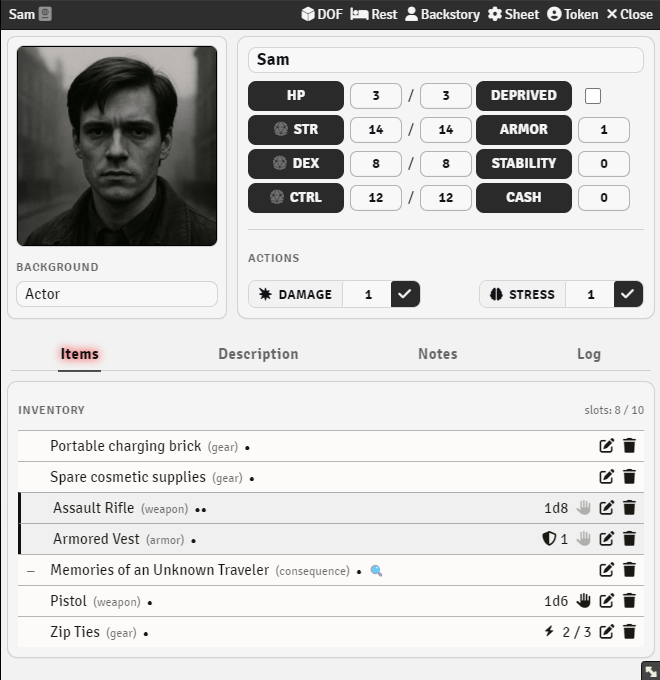
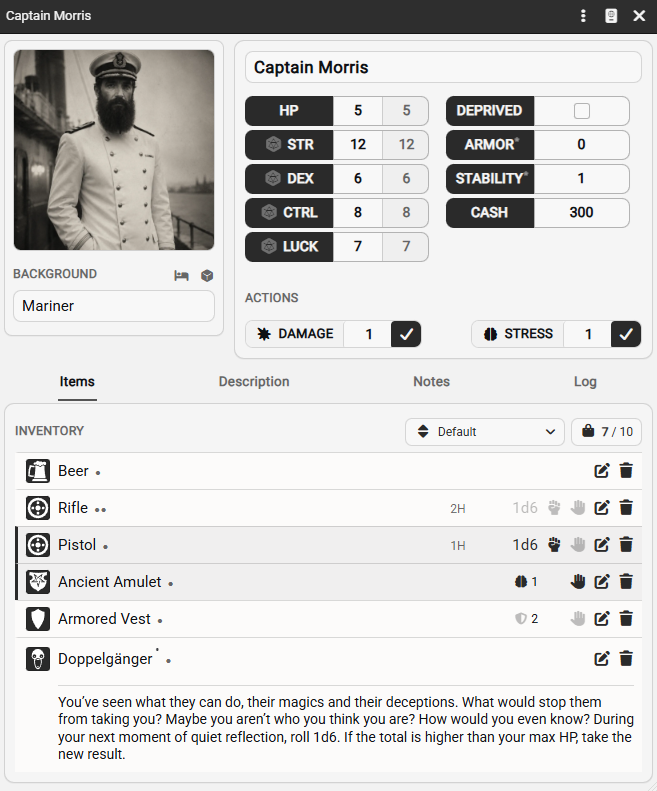
docs: redesign README with feature showcase and updated screenshots

diff --git a/README.md b/README.md
@@ -1,95 +1,154 @@
 <div align="center">
-  <img src="assets/img/logo.webp" alt="Liminal Horror Logo" width="500"/>
+  <img src="assets/img/logo.webp" alt="Liminal Horror" width="420" />
+
+  <h1>Liminal Horror for Foundry VTT</h1>
+
+  <p>Investigator sheets, character generation, and tools for the Facilitator.</p>
+
+  <p>
+    <img src="https://img.shields.io/badge/Foundry-v14-2a2a2a" alt="Foundry v14" />
+    <img src="https://img.shields.io/badge/Languages-English%20%2F%20Українська-2a2a2a" alt="Languages: English and Ukrainian" />
+    <img src="https://img.shields.io/badge/Release-Beta-2a2a2a" alt="Release: Beta" />
+    <a href="https://creativecommons.org/licenses/by-sa/4.0/"><img src="https://img.shields.io/badge/License-CC%20BY--SA%204.0-2a2a2a" alt="License: CC BY-SA 4.0" /></a>
+  </p>
+
+  <p>
+    <a href="#installation">Install</a> ·
+    <a href="#features">Features &amp; screenshots</a> ·
+    <a href="CHANGELOG.md">Changelog</a> ·
+    <a href="https://666f78.pp.ua/donate">Support development</a>
+  </p>
 </div>
 
-# Liminal Horror — Foundry VTT System
+An **unofficial system** for playing [Liminal Horror](https://liminalhorrorrpg.com) in [Foundry Virtual Tabletop](https://foundryvtt.com). Manage investigators, roll saves and attacks, track equipment and protection, and generate characters with their backgrounds and starting items.
 
-![Foundry v14](https://img.shields.io/badge/Foundry-v14-green)
-![License: CC BY-SA 4.0](https://img.shields.io/badge/License-CC%20BY--SA%204.0-blue)
-![Status: Unofficial](https://img.shields.io/badge/Status-Unofficial-critical)
-![Release: Beta](https://img.shields.io/badge/Release-Beta-yellow)
-[![Changelog](https://img.shields.io/badge/Changelog-md-orange)](https://github.com/666f78/liminal-horror/blob/master/CHANGELOG.md)
+Available in **English** and **Українська**. Designed for **Foundry VTT v14**.
 
-</div>
+> This is an independent adaptation by **D.H. / 666f78**, not affiliated with or endorsed by the creators of Liminal Horror.
 
-> ☕ **[Support the project](https://666f78.pp.ua/donate)** — help support continued development.
+## Installation
 
-This is an **unofficial system** for [Foundry Virtual Tabletop](https://foundryvtt.com), designed to run games of **[Liminal Horror](https://liminalhorrorrpg.com)**.
-It provides investigator sheets, rolling mechanics, and tools adapted to the rules of the game.
+1. Open Foundry VTT and go to **Game Systems → Install System**.
+2. Paste this URL into **Manifest URL**:
 
-> ⚠ **Disclaimer**: Unofficial system by D.H. / 666f78.
-> Not affiliated with Goblin Archives, Josh Domanski, or Zach Hazard Vaupen.
+   ```text
+   https://github.com/666f78/liminal-horror/releases/latest/download/system.json
+   ```
 
-## Features & Roadmap
+3. Click **Install**, then create a world using **Liminal Horror**.
 
-- [x] Investigator sheet with core attributes, inventory, stress, and conditions.
-- [x] Limited Investigator sheet.
-- [x] Support for dice rolls and saving throws according to the Liminal Horror rules.
-- [x] Simple inventory and slot-based encumbrance.
-- [x] GM tools for stress, injuries, and custom rolls.
-- [x] GM `Log` tab in actor sheet and background generator button.
-- [x] Localization support (English, Українська).
-- [x] Appendix L: Luck
-- [x] Update UI
-- [x] Starter item compendium
+For manual installation, download `system.zip` from the [latest release](https://github.com/666f78/liminal-horror/releases/latest) and extract the system into `Data/systems/liminal-horror`.
+
+<details>
+  <summary>Legacy installation for Foundry VTT v12</summary>
+
+The v12 version is no longer updated. Use the manifest for release **0.1.0**:
+
+```text
+https://github.com/666f78/liminal-horror/releases/download/0.1.0/system.json
+```
+
+</details>
+
+## Features
+
+### Investigator sheets
+
+Keep attributes, HP, cash, armor, Stability, and inventory together. Roll directly from the sheet, expand item descriptions, and use separate tabs for character descriptions, notes, and the GM log.
+
+- Slot-based inventory with manual drag-and-drop ordering and sorting options.
+- Equipped weapon and spell attacks, primary and offhand weapon slots, and two-handed weapons.
+- Automatic dual-wielding rolls that keep the highest result, with configurable offhand die reduction.
+- Separate physical and stress protection, with automatic totals from equipped armor or manual values.
+- Optional **Appendix L: Luck**, including spending Luck and undoing the expenditure.
+- Limited-permission investigator views and sheets for NPCs, monsters, and vehicles.
+
+<p align="center">
+  <a href="docs/sheet.png"><img src="docs/sheet.png" alt="Investigator sheet with attributes, equipment slots, armor, and an expanded item description" width="654" /></a>
+</p>
+
+### Investigator generation
+
+Build an investigator step by step from the sheet's **Investigator Generator**, or use **Generate Investigator** in the Actors directory to create one with rolled stats, descriptive details, a backstory, and starting equipment. The result is also posted to chat.
+
+The sheet generator supports individual rolls, rolling only missing attributes, attribute swapping, and configurable player rerolls.
+
+<table>
+  <tr>
+    <th width="65%">Investigator Generator</th>
+    <th width="35%">Generated investigator in chat</th>
+  </tr>
+  <tr>
+    <td align="center" valign="top">
+      <a href="docs/investigator-generator.png"><img src="docs/investigator-generator.png" alt="Investigator Generator with attribute rolls, descriptive details, and background selection" width="500" /></a>
+    </td>
+    <td align="center" valign="top">
+      <a href="docs/random-investigator-generator.png"><img src="docs/random-investigator-generator.png" alt="Generated investigator chat card with a backstory, stats, and descriptive details" width="240" /></a>
+    </td>
+  </tr>
+</table>
+
+### Party Overview
+
+Give the Facilitator a shared view of the selected investigators: HP, attributes, optional Luck, inventory slots, and statuses. The GM can edit the party, open character sheets from the table, and inspect additional statuses through tooltips. Values update as characters change.
+
+<p align="center">
+  <a href="docs/party-overview.png"><img src="docs/party-overview.png" alt="Party Overview showing three investigators with HP, attributes, inventory slots, and statuses" width="880" /></a>
+</p>
+
+### Items and equipment
+
+Use the starter item compendium or create your own weapons, spells, armor, gear, artifacts, injuries, consequences, and conditions. New items receive a monochrome icon for their type; click an item's image to choose your own.
+
+Weapon sheets include damage, handedness, and primary/offhand assignment. Armor can provide physical protection, stress protection, or both. Equipment changes are grouped into one chat message showing what was removed and equipped.
+
+<table>
+  <tr>
+    <th width="60%">Item sheet</th>
+    <th width="40%">Starter item compendium</th>
+  </tr>
+  <tr>
+    <td align="center" valign="top">
+      <a href="docs/item-sheet.png"><img src="docs/item-sheet.png" alt="Weapon item sheet with an editable image, damage, weapon grip, equipment slot, and inventory fields" width="440" /></a>
+    </td>
+    <td align="center" valign="top">
+      <a href="docs/compendium-items.png"><img src="docs/compendium-items.png" alt="Starter item compendium organized into folders with monochrome item icons" width="250" /></a>
+    </td>
+  </tr>
+</table>
+
+### Tools for the Facilitator
+
+Apply damage and stress, manage injuries and consequences, roll backgrounds, and use Voidcrawl tools. Integrated chat cards display rolls, item use, equipment changes, and generated investigator details.
+
+## Getting started
+
+1. Create an **Investigator** in the Actors directory, or click **Generate Investigator** for a random character.
+2. Open the sheet's **Investigator Generator** to roll or fill in character details step by step.
+3. Add items from the compendium or create them yourself, then equip the weapons, spells, and armor you want to use.
+4. Click an equipped weapon's damage die to attack, or an attribute to roll a save.
+5. As GM, open **Party Overview** from the Actors directory and choose the investigators to track.
+
+System settings control automatic protection totals, dual-wielding die reduction, generator rerolls, and **Appendix L: Luck**.
+
+## Roadmap
+
 - [ ] Appendix C: Conditions
 - [ ] Appendix I: Item Tags
 - [ ] Appendix T: Time Procedures
 
-## Installation
+See [CHANGELOG.md](CHANGELOG.md) for release notes and completed changes.
 
-1. Open **Foundry VTT**.
-2. Navigate to **Game Systems → Install System**.
-3. Paste the system manifest URL below:
+## Feedback and contributions
 
-**For Foundry v14 (latest, recommended):**
+[Report a bug](https://github.com/666f78/liminal-horror/issues) or [start a discussion](https://github.com/666f78/liminal-horror/discussions). Feature requests, pull requests, and English or Ukrainian translation improvements are welcome. Submit localization changes in the corresponding `lang/*.json` files.
 
-```bash
-https://github.com/666f78/liminal-horror/releases/latest/download/system.json
-```
+If you would like to help fund ongoing work, [support development](https://666f78.pp.ua/donate).
 
-**For Foundry v12 (legacy, no longer updated):**
+## Credits and license
 
-```bash
-https://github.com/666f78/liminal-horror/releases/download/0.1.0/system.json
-```
+**Liminal Horror** was created by **Goblin Archives, Josh Domanski, and Zach Hazard Vaupen**. This Foundry VTT adaptation is developed by **D.H. / 666f78**.
 
-4. Click **Install**.
-5. After installation, create a new world using **Liminal Horror** system.
+The original game and this adaptation are released under the [Creative Commons Attribution-ShareAlike 4.0 International License](https://creativecommons.org/licenses/by-sa/4.0/). You may share and adapt this work with appropriate credit to the original creators and the adaptation's author, and must distribute adaptations under the same license.
 
-> 💡 **Tip**: You can also install manually by downloading this repository as a ZIP and placing it in your Foundry `Data/systems` folder.
-
-## Usage
-
-- Create a new Actor → Choose **Investigator** to make a player sheet.
-- Add attributes, inventory items, and conditions directly from the sheet.
-- Roll attributes and saves with integrated buttons.
-- GMs can apply stress, conditions, and whisper rolls privately.
-
-![Investigator Sheet](docs/sheet.png)
-
-## Contributing
-
-Feedback and pull requests are welcome. Please use GitHub Issues for bug reports or feature requests.
-For localization contributions, please submit `.json` files via PR.
-
-## License
-
-This work is based on **Liminal Horror**, developed by Goblin Archives, Josh Domanski, and Zach Hazard Vaupen, and published under the [Creative Commons Attribution-ShareAlike 4.0 International License (CC BY-SA 4.0)](https://creativecommons.org/licenses/by-sa/4.0/).
-
-The **Foundry VTT system adaptation** has been developed by **D.H. / 666f78** and is likewise released under the **CC BY-SA 4.0 License**.
-You are free to share and adapt this system, provided that you give appropriate credit to both the original creators of _Liminal Horror_ and to the author of this adaptation, and distribute your contributions under the same license.
-
-Liminal Horror © Goblin Archives, Josh Domanski, and Zach Hazard Vaupen.
-Foundry VTT system adaptation © D.H. / 666f78.
-This project is not affiliated with, endorsed, or sponsored by Goblin Archives, Josh Domanski, or Zach Hazard Vaupen.
-
-## Credits
-
-- **Liminal Horror** created by Goblin Archives, Josh Domanski, and Zach Hazard Vaupen.
-  Licensed under [CC BY-SA 4.0](https://creativecommons.org/licenses/by-sa/4.0/).
-- **Foundry VTT system adaptation** by **D.H. / 666f78**, licensed under [CC BY-SA 4.0](https://creativecommons.org/licenses/by-sa/4.0/).
-
-## Changelog
-
-See the [CHANGELOG.md](https://github.com/666f78/liminal-horror/blob/master/CHANGELOG.md) for details.
+Liminal Horror © Goblin Archives, Josh Domanski, and Zach Hazard Vaupen. Foundry VTT system adaptation © D.H. / 666f78. This project is not affiliated with, endorsed, or sponsored by the original creators.
